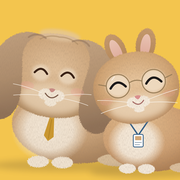
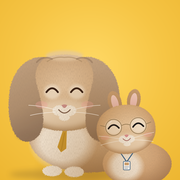
見た目（2）：夕方の光のすじ・アイテムの絵を 2 倍の細かさと陰影／アプリのアイコンと共有画像を作り直し
- 朝夕、太陽が低い時だけ光のすじ（アニメの入射光）。軽いモードでは出さない。qa/lightfx.js
- アイテムの絵を 128 → 256 に（近くのアイテムがぼやけない）。のっぺりした面にうすい陰影
- アプリのアイコン：2 匹が頭から入る構図に（前はレンの耳・ジルの体が端で切れていた）。マスク用は安全な円の中に顔。タブ用はレンの顔
- 共有画像（og.png）：ゲームと同じ字のロゴ・読める下地・正面のキャラクター（前は説明の後ろを障子の線が横切っていた）。tools/make_og.js

Claude-Session: https://claude.ai/code/session_01KYhWQVkUVFVXPun7Dy396r

diff --git a/tools/make_og.js b/tools/make_og.js
@@ -1,0 +1,30 @@
+// 共有用の画像（app/og.png 1200x630）を作る（2026-11-15 作り直し：前の画像は、英語の説明の後ろを障子の線が横切って打ち消し線のように見えていた）。
+// 使い方: python3 build.py && node tools/make_og.js dist/test.html /tmp/og2x.png <フォントのフォルダ>  → 1200x630 に縮めて app/og.png に置く
+//   フォントのフォルダ＝ npm i @fontsource/dela-gothic-one @fontsource/zen-maru-gothic した node_modules（どちらも無料の SIL OFL。ゲームと同じ字）
+// アプリのアイコン（icon-512.png など）は renjill-auto の rig/icon3.js で作る（キャラクターの絵は SNS と同じ元の絵）
+const { chromium } = require('playwright'); const path = require('path');
+(async () => { const [html, out, fdir] = process.argv.slice(2); const b = await chromium.launch({ executablePath: process.env.PW_EXEC || undefined, args: ['--allow-file-access-from-files'] }); const p = await b.newPage({ viewport: { width: 1200, height: 630 }, deviceScaleFactor: 2 });
+  await p.route('**/fonts.googleapis.com/**', r => r.abort());
+  await p.addInitScript(() => localStorage.setItem('renjill-hay-dash-v1', JSON.stringify({ tutDone: 1, nickAsked: 1, runs: 9, lang: 'ja' })));
+  await p.goto('file://' + path.resolve(html)); await p.waitForTimeout(2200);
+  const F = (fam, file, w) => `@font-face{font-family:"${fam}";src:url("file://${fdir}/${file}") format("woff2");font-weight:${w}}`;
+  await p.addStyleTag({ content: [F('OGDela', '@fontsource/dela-gothic-one/files/dela-gothic-one-japanese-400-normal.woff2', 400), F('OGDela', '@fontsource/dela-gothic-one/files/dela-gothic-one-latin-400-normal.woff2', 400), F('OGZen', '@fontsource/zen-maru-gothic/files/zen-maru-gothic-japanese-700-normal.woff2', 700), F('OGZen', '@fontsource/zen-maru-gothic/files/zen-maru-gothic-latin-700-normal.woff2', 700), F('OGZen', '@fontsource/zen-maru-gothic/files/zen-maru-gothic-japanese-900-normal.woff2', 900), F('OGZen', '@fontsource/zen-maru-gothic/files/zen-maru-gothic-latin-900-normal.woff2', 900)].join('\n').replace(/latin-(\d+)-normal\.woff2"\) format\("woff2"\);font-weight:(\d+)\}/g, 'latin-$1-normal.woff2") format("woff2");font-weight:$2;unicode-range:U+0000-00FF}') });
+  await p.evaluate(() => { const H = window.__hayDash, G = H.G; for (const id of ['sTitle', 'hud']) { const e = document.getElementById(id); if (e) e.style.display = 'none'; } document.querySelectorAll('#app > .toast, #btnLangTop').forEach(e => e.style.display = 'none');
+    const ren = H.ev("bunHi('ren','happy',BUN.ren.front_happy,2.2).toDataURL()"), jill = H.ev("bunHi('jill','happy',BUN.jill.front_happy,2.2).toDataURL()");
+    G.player.show = false; G.follow.show = false; G.pom.show = false; H.ev('render()');
+    const bg = document.getElementById('cv').toDataURL('image/jpeg', .95);
+    const d = document.createElement('div'); d.id = 'ogx'; d.innerHTML = `<style>
+      #ogx{position:absolute;inset:0;z-index:99;pointer-events:none;font-family:"OGZen",sans-serif;background:#3B2A20 url(${bg}) center/cover}
+      #ogx .shade{position:absolute;inset:0;background:linear-gradient(100deg,rgba(46,30,20,.9) 0%,rgba(46,30,20,.74) 36%,rgba(46,30,20,.12) 62%,rgba(46,30,20,0) 75%),radial-gradient(ellipse at 76% 96%,rgba(30,18,10,.34) 0%,rgba(30,18,10,0) 42%)}
+      #ogx .t{position:absolute;left:62px;top:70px;color:#FBF6EE}
+      #ogx .k{font-weight:900;font-size:26px;letter-spacing:.22em}
+      #ogx .l{font-family:"OGDela","OGZen",sans-serif;font-size:100px;line-height:1.08;margin-top:8px;color:#FBF6EE;text-shadow:0 7px 0 #24160d,0 0 26px rgba(0,0,0,.25);letter-spacing:.01em}
+      #ogx .l b{display:block;color:#F6C545;font-weight:400}
+      #ogx .s{font-weight:700;font-size:26px;margin-top:20px;line-height:1.5}
+      #ogx .c{display:inline-block;margin-top:24px;background:#D8473B;color:#fff;font-weight:900;font-size:27px;padding:11px 30px;border-radius:999px;border:4px solid #FBF6EE;box-shadow:0 5px 0 rgba(0,0,0,.35)}
+      #ogx img{position:absolute;filter:drop-shadow(0 10px 6px rgba(30,18,10,.28))}
+    </style><div class="shade"></div><img src="${ren}" style="height:520px;right:150px;bottom:6px"><img src="${jill}" style="height:400px;right:8px;bottom:0px">
+    <div class="t"><div class="k">REN &amp; JILL ・ レンとジル</div><div class="l">チモシー<b>ダッシュ！</b></div><div class="s">うさぎの課長と部下が、東京をかけぬける<br>Two office bunnies dash across Tokyo</div><div class="c">無料で遊べる ・ Free to play</div></div>`; document.getElementById('app').appendChild(d); });
+  await p.evaluate(() => document.fonts.load('100px OGDela', 'チモシーダッシュ！').then(() => document.fonts.load('900 26px OGZen', 'レンとジル無料で遊べる')).then(() => document.fonts.load('700 26px OGZen', 'うさぎの課長と部下が、東京をかけぬける')));
+  await p.waitForTimeout(900); console.log(await p.evaluate(() => [...document.fonts].filter(f => f.status === 'loaded').map(f => f.family + f.weight).join(',')));
+  await p.screenshot({ path: out }); await b.close(); })();

diff --git a/src/2_sprites.js b/src/2_sprites.js
@@ -92,10 +92,16 @@ const DRAW_ITEM = {
     rr(g, 26, 16, 76, 12, 3, '#C8463C', OUT, 2.5); rr(g, 30, 106, 68, 10, 3, '#C8463C', OUT, 2.5); ell(g, 64, 70, 22, 16, 0, '#F7DD8A', OUT, 2);
     g.fillStyle = '#C8463C'; g.font = '900 14px sans-serif'; g.textAlign = 'center'; g.fillText('CHIPS', 64, 46); },
 };
+const ITEM_NOSHADE = ['goldhay', 'planeBack', 'plane', 'hanko', 'memo']; /* 自分で色を重ねている物・紙のように平らな物には、陰影を足さない */
 function buildItemSprites() {
-  for (const k in DRAW_ITEM) { const c = mk(128); const g = c.getContext('2d') || noCtx(); g.lineJoin = 'round'; DRAW_ITEM[k](g); SPR[k] = c; try { SPR_URL[k] = c.toDataURL(); } catch (e) { SPR_URL[k] = ''; } }
+  /* 2026-11-15：アイテムの絵を 2 倍の細かさで作る（128 → 256）。スマホの細かい画面で、近くのアイテムがぼやけていた。絵のメモリが足りない端末（CANVAS_LOW）は今までどおり。
+     あわせて、のっぺりした面にうすい陰影（左上が明るく、右下が少し暗い）を重ねて、丸みを出す */
+  const IK = typeof CANVAS_LOW !== 'undefined' && CANVAS_LOW ? 1 : 2;
+  for (const k in DRAW_ITEM) { const c = mk(128 * IK); const g = c.getContext('2d') || noCtx(); g.lineJoin = 'round'; g.save(); g.scale(IK, IK); DRAW_ITEM[k](g); g.restore();
+    if (!ITEM_NOSHADE.includes(k)) { g.save(); g.globalCompositeOperation = 'source-atop'; const sh = g.createLinearGradient(c.width * .2, c.height * .1, c.width * .8, c.height * .95); sh.addColorStop(0, 'rgba(255,255,255,.16)'); sh.addColorStop(.45, 'rgba(255,255,255,0)'); sh.addColorStop(.6, 'rgba(40,24,10,0)'); sh.addColorStop(1, 'rgba(40,24,10,.17)'); g.fillStyle = sh; g.fillRect(0, 0, c.width, c.height); g.restore(); }
+    SPR[k] = c; try { SPR_URL[k] = c.toDataURL(); } catch (e) { SPR_URL[k] = ''; } }
   // NG badge over bad foods
-  for (const k of BADS) { const c = mk(128); const g = c.getContext('2d') || noCtx(); g.drawImage(SPR[k], 0, 0); ell(g, 100, 24, 20, 20, 0, '#C8463C', '#FBF6EE', 4);
+  for (const k of BADS) { const c = mk(128 * IK); const g = c.getContext('2d') || noCtx(); g.drawImage(SPR[k], 0, 0); g.scale(IK, IK); ell(g, 100, 24, 20, 20, 0, '#C8463C', '#FBF6EE', 4);
     g.strokeStyle = '#FBF6EE'; g.lineWidth = 6; g.beginPath(); g.moveTo(91, 15); g.lineTo(109, 33); g.moveTo(109, 15); g.lineTo(91, 33); g.stroke(); SPR[k + 'NG'] = c; }
 }
 

diff --git a/qa/lightfx.js b/qa/lightfx.js
@@ -1,0 +1,13 @@
+// 光の演出（2026-11-15）：①夕方、太陽が低く画面に入っている時だけ光のすじが出る（昼・夜・軽いモードでは出ない）②やわらかい光は「ふつう」で働き、軽いモードでは働かない ③どちらもエラーを出さない
+const { chromium } = require('playwright'); const path = require('path');
+(async () => { const b = await chromium.launch({ executablePath: process.env.PW_EXEC || undefined }); const bad = [];
+  const p = await b.newPage({ viewport: { width: 1280, height: 800 } }); p.on('pageerror', e => bad.push('エラー: ' + e.message)); await p.route('**/fonts.googleapis.com/**', r => r.abort());
+  await p.addInitScript(() => localStorage.setItem('renjill-hay-dash-v1', JSON.stringify({ tutDone: 1, nickAsked: 1, runs: 9, lang: 'ja' })));
+  await p.goto('file://' + path.resolve(__dirname, '../dist') + '/test.html'); await p.waitForTimeout(900); await p.click('#btnStart'); await p.waitForTimeout(900);
+  const at = async (clock, q) => { await p.evaluate(a => { const H = window.__hayDash, G = H.G; H.setQ(a.q); G.jumpTo('kaihin', a.clock, 1); G.invT = 99; G.rayN = 0; H.ev('DIF_K = 1; window.__dif = 0; if (!window.__difWrap) { window.__difWrap = 1; const d0 = diffusion; diffusion = function () { const before = DIFC; d0(); if (DIFC && DIF_K > 0) window.__dif++; }; }'); }, { clock, q }); await p.waitForTimeout(800);
+    return p.evaluate(() => ({ ray: window.__hayDash.G.rayN || 0, dif: window.__dif || 0, difK: window.__hayDash.ev('DIF_K'), low: window.__hayDash.ev('lowQ') })); };
+  const eve = await at(1066, 0), noon = await at(720, 0), night = await at(1290, 0), lowq = await at(1066, 1);
+  if (!(eve.ray > 3)) bad.push('① 夕方に光のすじが出ていない ' + JSON.stringify(eve)); if (noon.ray) bad.push('① 昼に光のすじが出た'); if (night.ray) bad.push('① 夜に光のすじが出た'); if (lowq.ray) bad.push('① 軽いモードで光のすじが出た');
+  if (!(eve.dif > 3) || eve.difK <= 0) bad.push('② やわらかい光が働いていない ' + JSON.stringify(eve)); if (lowq.dif) bad.push('② 軽いモードで、やわらかい光が働いた ' + JSON.stringify(lowq));
+  await b.close(); if (bad.length) { console.log('LIGHTFX NG\n' + bad.join('\n')); process.exit(1); } console.log('LIGHTFX OK');
+})();

diff --git a/src/4c_atmos.js b/src/4c_atmos.js
@@ -50,6 +50,11 @@ function drawSunGlow(horizon) {
   g.addColorStop(0, rgbS(col, .55 * k)); g.addColorStop(.18, rgbS(col, .22 * k)); g.addColorStop(1, rgbS(col, 0));
   ctx.fillStyle = g; ctx.fillRect(x - R, y - R, R * 2, R * 2);
   if (k === 1) { ctx.fillStyle = rgbS(mixRGB([255, 255, 248], col, .5), .95); ctx.beginPath(); ctx.arc(x, y, 9 + low * 5, 0, Math.PI * 2); ctx.fill(); }
+  /* 2026-11-15：朝と夕方、太陽が低い時だけ、太陽から光のすじがのびる（アニメの「入射光」）。うすく、ゆっくり回る。軽いモードでは出さない */
+  if (k === 1 && low > .3 && !(typeof lowQ !== 'undefined' && lowQ)) { const a0 = OPT().calm ? .3 : G.t * .02, L = FOCAL * (1.1 + low * .9), al = .05 * clamp((low - .3) / .4, 0, 1);
+    for (let i = 0; i < 7; i++) { const a = a0 + i * Math.PI * 2 / 7 + (i % 2) * .16, w = .05 + (i % 3) * .022, len = L * (.62 + (i * 37 % 10) / 26), gr = ctx.createLinearGradient(x, y, x + Math.cos(a) * len, y + Math.sin(a) * len);
+      gr.addColorStop(0, rgbS(col, al)); gr.addColorStop(1, rgbS(col, 0)); ctx.fillStyle = gr; ctx.beginPath(); ctx.moveTo(x, y); ctx.lineTo(x + Math.cos(a - w) * len, y + Math.sin(a - w) * len); ctx.lineTo(x + Math.cos(a + w) * len, y + Math.sin(a + w) * len); ctx.closePath(); ctx.fill(); }
+    G.rayN = (G.rayN || 0) + 1; }
   ctx.globalCompositeOperation = 'source-over';
 }
 
